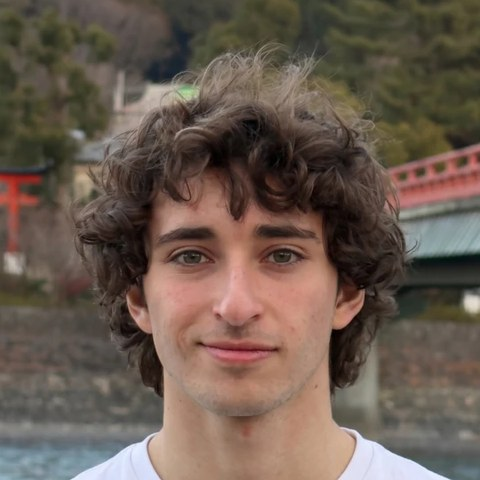
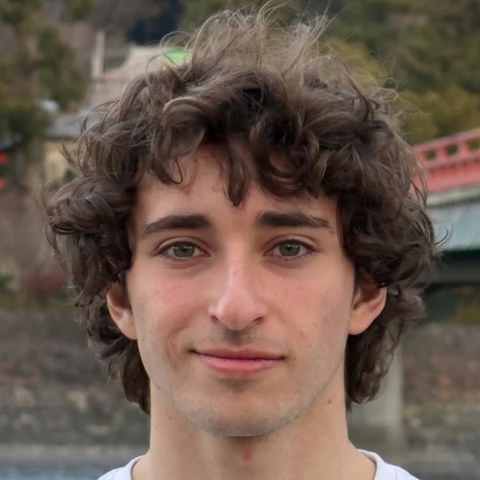
Portada: foto centrada, sin borde

diff --git a/style.css b/style.css
@@ -184,4 +184,4 @@ h1,.big2,.qs p,.qs3 p,.counter b,.sticker b,.thanks,.star b,#timer,.stamp,.neq{f
 .res p{margin:0 0 18px;font-size:24px;line-height:1.3;color:var(--dim);text-shadow:0 2px 12px #000}
 .res p b{display:block;font-size:30px;color:var(--ink);margin-bottom:2px}
 #qrEnd span{max-width:430px;overflow-wrap:anywhere;font-size:20px}
-.who{display:flex;align-items:center;gap:30px;margin-top:44px}.who img{width:150px;height:150px;border-radius:50%;object-fit:cover;box-shadow:0 0 0 3px rgba(156,194,255,.5),0 12px 40px rgba(0,0,0,.5)}.who .by{margin:0}.who .by.small{margin-top:8px}
+.who{display:flex;align-items:center;gap:30px;margin-top:44px}.who img{width:150px;height:150px;border-radius:50%;object-fit:cover;box-shadow:0 12px 40px rgba(0,0,0,.45)}.who .by{margin:0}.who .by.small{margin-top:8px}
